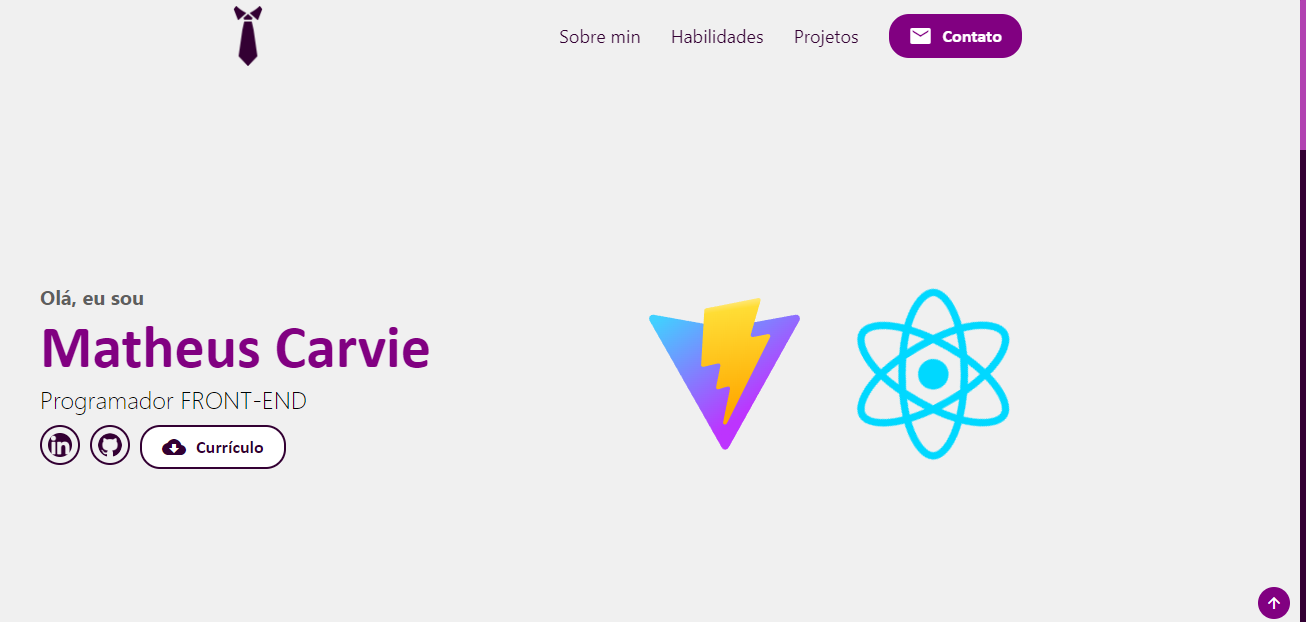
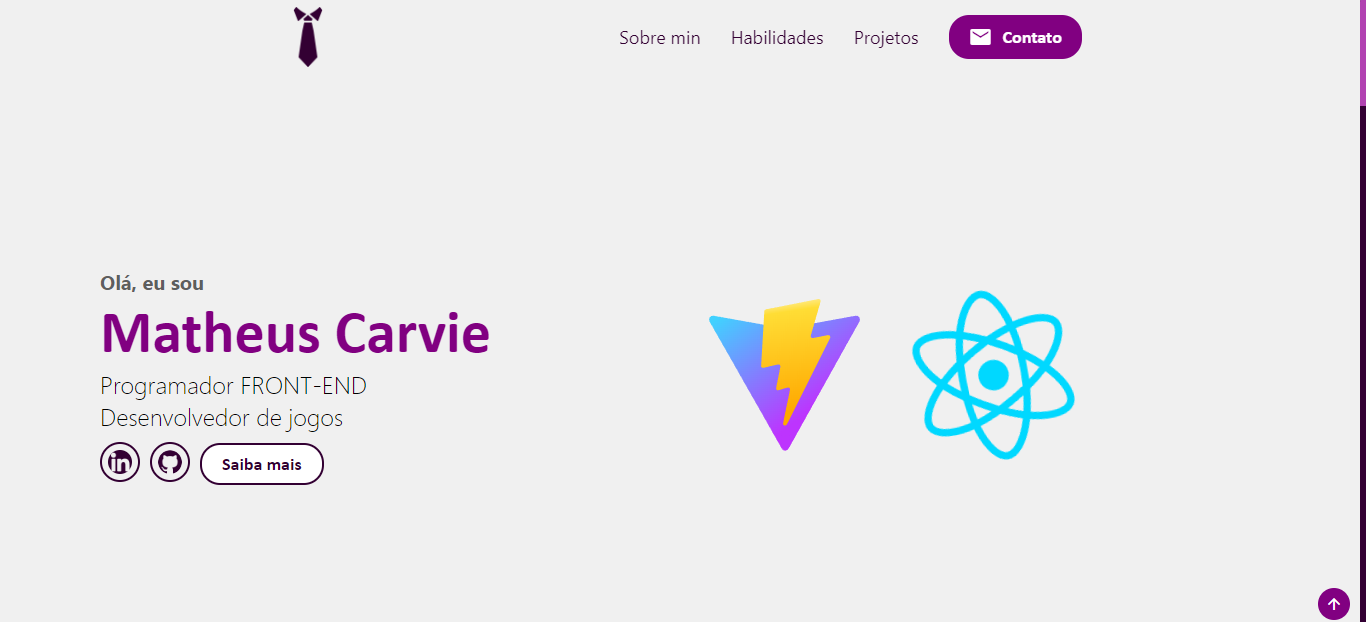
Ajustes no scroll + Inputs

diff --git a/src/App.jsx b/src/App.jsx
@@ -24,7 +24,6 @@ import MyInput from './components/my_input'
 
 export default function App() {
   const [isScroll, setIsScroll] = useState(false);
-  const [scrollValue, setScrollValue] = useState(0);
 
   // Cria um ouvinte que vai obter o valor atual do scroll no eixo Y
   useEffect(() => {
@@ -36,9 +35,23 @@ export default function App() {
 
   const handleScroll = () => {
     const scrollY = window.scrollY;
-    setScrollValue(scrollY);
     setIsScroll(scrollY > 10);
   };
+
+  const scrollToElement = (id) => {
+    const element = document.getElementById(id);
+    const elementPosition = element.getBoundingClientRect().top;
+    const offsetPosition = elementPosition - (80 - window.scrollY);
+
+    window.scrollTo({
+      top: offsetPosition,
+      behavior: "smooth"
+    });
+  };
+
+  const navigatePag = (url) => {
+    window.open(url, "_blank");
+  }
 
   const customStyle = {
     header: {
@@ -52,13 +65,13 @@ export default function App() {
 
   return (
     <div id='app_body'>
-      <header style={customStyle.header}>
+      <header style={customStyle.header} >
         <img src={logo} alt="tie" />
         <nav>
-          <TextButton style={customStyle.textButton} text={"Sobre min"} />
-          <TextButton style={customStyle.textButton} text={"Habilidades"} />
-          <TextButton style={customStyle.textButton} text={"Projetos"} />
-          <MyButton style={{ marginLeft: "10px" }} text={"Contato"} icon={"mail"} />
+          <TextButton style={customStyle.textButton} text={"Sobre min"} onClick={() => scrollToElement("two")} />
+          <TextButton style={customStyle.textButton} text={"Habilidades"} onClick={() => scrollToElement("three")} />
+          <TextButton style={customStyle.textButton} text={"Projetos"} onClick={() => scrollToElement("four")} />
+          <MyButton style={{ marginLeft: "10px" }} text={"Contato"} icon={"mail"} onClick={() => scrollToElement("five")} />
         </nav>
       </header>
       <main>
@@ -69,9 +82,9 @@ export default function App() {
             <h2>Programador FRONT-END</h2>
             <h2>Desenvolvedor de jogos</h2>
             <div className='line_buttons'>
-              <CircleButton tooltip={"Linkedin"} src={linkedinDark} srcHover={linkedin} alt={"Linkedin"} />
-              <CircleButton tooltip={"GitHub"} src={gitHubDark} srcHover={gitHub} alt={"GitHub"} />
-              <MyButton text={"Saiba mais"} />
+              <CircleButton tooltip={"Linkedin"} src={linkedinDark} srcHover={linkedin} alt={"Linkedin"} onClick={() => navigatePag("https://www.linkedin.com/in/matheuscarvie/")} />
+              <CircleButton tooltip={"GitHub"} src={gitHubDark} srcHover={gitHub} alt={"GitHub"} onClick={() => navigatePag("https://github.com/MatheusCarvie")} />
+              <MyButton text={"Saiba mais"} onClick={() => scrollToElement("two")} />
             </div>
           </article>
           <article className='right'>
@@ -83,7 +96,7 @@ export default function App() {
             </a>
           </article>
         </section>
-        <section className='two'>
+        <section className='two' id='two'>
           <article className='left'>
             <Player
               autoplay
@@ -98,7 +111,7 @@ export default function App() {
             </p>
           </article>
         </section>
-        <section className='three'>
+        <section className='three' id='three'>
           <h2>Habilidades</h2>
           <LineItem text={"ReactJS"} description={"Tenho habilidades com useState, useEffect e contextos para gerenciamento de estado eficaz, além de aplicar componentização para construir interfaces modulares. Estou sempre aprendendo para aprimorar minhas habilidades."} />
           <LineItem text={"Vite"} description={"Estou familiarizado com a criação ágil e eficaz de projetos front-end usando o Vite. Essa ferramenta proporciona uma abordagem eficiente no desenvolvimento, permitindo a construção rápida e fluida de aplicações."} />
@@ -108,19 +121,40 @@ export default function App() {
           <LineItem text={"Firebase"} description={"Tenho um conhecimento abrangente no Firebase, cobrindo áreas como autenticação, banco de dados, armazenamento de arquivos e hospedagem. Essa plataforma oferece uma gama completa de recursos que me permitem lidar com diversas funcionalidades de maneira integrada."} />
           <LineItem text={"API"} description={"Com o Axios no ReactJS, é fácil pegar dados de uma API. A integração é tranquila e eficiente, facilitando o processo de obtenção de informações."} />
         </section>
-        <section className='four'>
+        <section className='four' id='four'>
           <h2>Projetos Web 🎉</h2>
           <div className='line'>
-            <CardProjects notView={true} src={imgPortfolio} alt={"Meu portfólio"} description={"Feito com ReactJS + Vite"} />
-            <CardProjects disable={true} src={pokedex} alt={"Pokédex"} description={"Consumo de API. Em desenvolvimento"} />
-            <CardProjects disable={true} src={projeting} alt={"Projeto pessoal"} description={"Ainda em desenvolvimento. 80% concluindo"} />
+            <CardProjects
+              notView={true}
+              src={imgPortfolio}
+              alt={"Meu portfólio"}
+              description={"Feito com ReactJS + Vite"}
+              linkClick={() => navigatePag("https://github.com/MatheusCarvie/portfolio")}
+            />
+            <CardProjects
+              disable={true}
+              src={pokedex}
+              alt={"Pokédex"}
+              description={"Consumo de API. Em desenvolvimento"}
+            />
+            <CardProjects
+              disable={true}
+              src={projeting}
+              alt={"Projeto pessoal"}
+              description={"Ainda em desenvolvimento. 80% concluindo"}
+            />
           </div>
           <h2>Projeto C++/C# 🎈</h2>
           <div className='line'>
-            <CardProjects src={flaxEngine} alt={"Flax Engine"} description={"Minha colaboração em um Software Open Source."} />
+            <CardProjects
+              linkClick={() => navigatePag("https://github.com/FlaxEngine/FlaxEngine/pull/1213")}
+              viewClick={() => navigatePag("https://flaxengine.com/")}
+              src={flaxEngine}
+              alt={"Flax Engine"}
+              description={"Minha colaboração em um Software Open Source."} />
           </div>
         </section>
-        <section className='five'>
+        <section className='five' id='five'>
           <div className='container'>
             <h2>Contato 📩</h2>
             <form action="https://formsubmit.co/matheuspowerdev@gmail.com" method="POST">
@@ -137,14 +171,14 @@ export default function App() {
           <p>Copyright © 2024 Matheus Carvie. Todos os direitos reservados.</p>
         </footer>
       </main>
-      <UpArrow />
+      <UpArrow onClick={() => scrollToElement("app_body")} />
     </div>
   )
 }
 
-function UpArrow() {
+function UpArrow({ onClick }) {
   return (
-    <div className="up_arrow">
+    <div className="up_arrow" onClick={onClick}>
       <span className="material-symbols-outlined">
         arrow_upward
       </span>
@@ -163,7 +197,7 @@ function LineItem({ text, description }) {
   )
 }
 
-function CardProjects({ src, alt, description, disable, notView = false }) {
+function CardProjects({ src, alt, description, disable, viewClick, linkClick, notView = false, notLink = false }) {
   return (
     <div className='card_projects'>
       <img src={src} alt={alt} />
@@ -173,8 +207,8 @@ function CardProjects({ src, alt, description, disable, notView = false }) {
         <div className='line'>
           {!disable && (
             <>
-              {!notView && <CircleButton src={olhoDark} srcHover={olho} alt={"Visualizar"} tooltip={"Visualizar o projeto"} />}
-              <CircleButton src={linkImgDark} srcHover={linkImg} alt={"Link"} tooltip={"Visualizar o repositório"} />
+              {!notView && <CircleButton onClick={viewClick} src={olhoDark} srcHover={olho} alt={"Visualizar"} tooltip={"Visualizar o projeto"} />}
+              {!notLink && <CircleButton onClick={linkClick} src={linkImgDark} srcHover={linkImg} alt={"Link"} tooltip={"Visualizar o repositório"} />}
             </>
           )}
         </div>

diff --git a/src/components/my_input.jsx b/src/components/my_input.jsx
@@ -12,8 +12,8 @@ export default function MyInput({ type, placeholder, required = true, name }) {
 
     return (
         <div className="my_input" onClick={handleClick}>
-            {type != "area" && <input name={name} ref={referInput} required={required} type={type} placeholder={placeholder} />}
-            {type == "area" && <textarea name={name} ref={referArea} required={required} placeholder={placeholder} cols="30" rows="10"></textarea>}
+            {type != "area" && <input autoComplete="off" name={name} ref={referInput} required={required} type={type} placeholder={placeholder} />}
+            {type == "area" && <textarea autoComplete="off" name={name} ref={referArea} required={required} placeholder={placeholder} cols="30" rows="10"></textarea>}
         </div>
     )
 }

diff --git a/src/App.css b/src/App.css
@@ -81,6 +81,17 @@
   display: flex;
   flex-direction: row;
   user-select: none;
+  animation: appear 1s ease-in-out forwards;
+}
+
+@keyframes appear {
+  from {
+    opacity: 0;
+  }
+
+  to {
+    opacity: 1;
+  }
 }
 
 #app_body .one {
